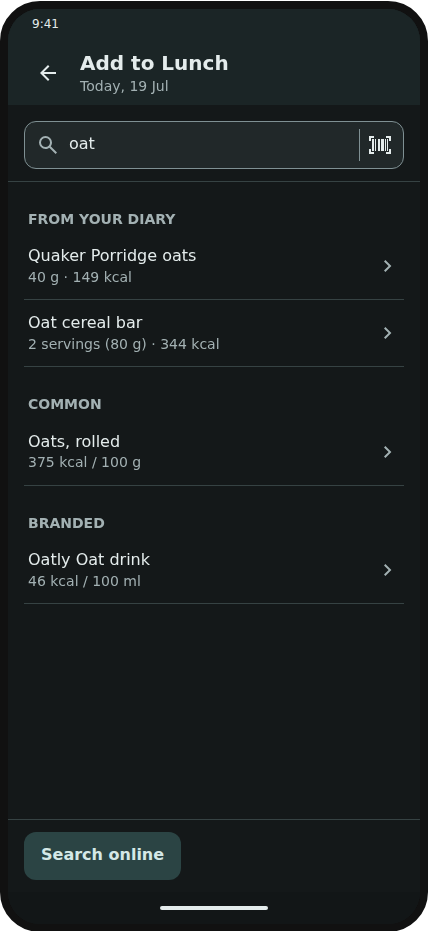
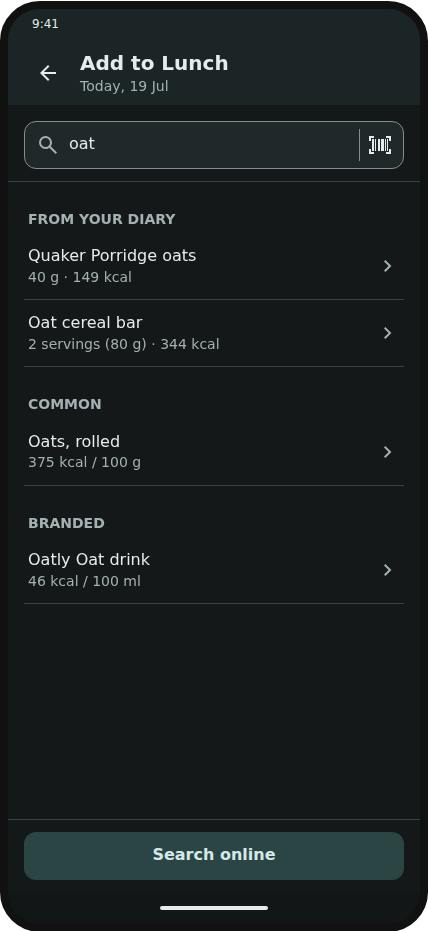
fix: make the pinned Search online button fill the bar

Changed region(s): [[0.0911, 0.8722, 0.9416, 0.9656]]

diff --git a/src/CalorieTracker.UI/Screens/FoodSearchView.razor.css b/src/CalorieTracker.UI/Screens/FoodSearchView.razor.css
@@ -89,6 +89,8 @@
 .pinned {
     display: flex;
     flex-direction: column;
+    flex: 1;
+    min-width: 0;
     gap: var(--space-2);
 }
 
